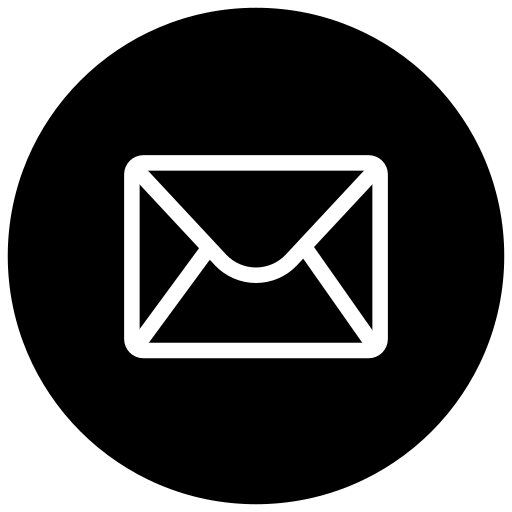
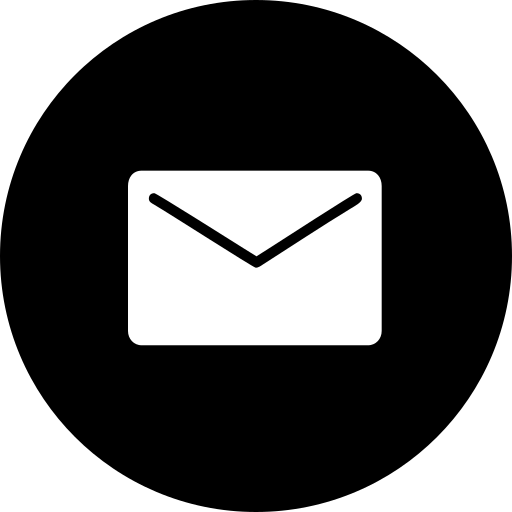
final fixes

Changed region(s): [[0.2188, 0.2812, 0.7812, 0.7188], [0.0, 0.0, 1.0, 1.0]]

diff --git a/src/app/components/main-page/main-page.component.html b/src/app/components/main-page/main-page.component.html
@@ -1,17 +1,18 @@
-<div class="main-container">
-  <div class="useful-links-container">
-    <div class="social-links-container">
-      <a [attr.href]="socialLinks[0].url" aria-label=" facebook" target="_blank" class="icon-container"
-        ngClass="icon-facebook"></a>
-      <a [attr.href]="socialLinks[1].url" aria-label=" Instagram" target="_blank" class="icon-container"
-        ngClass="icon-instagram"></a>
-      <a [attr.href]="socialLinks[2].url" aria-label="youtube" target="_blank" class="icon-container"
-        ngClass="icon-youtube"></a>
-      <a [attr.href]="'mailto:contact@demoralizeband.gr' " aria-label="email" class="icon-container"
-        ngClass="icon-mail"></a>
-    </div>
-
+<div class="useful-links-container">
+  <div class="social-links-container">
+    <a [attr.href]="socialLinks[0].url" aria-label=" facebook" target="_blank" class="icon-container"
+      ngClass="icon-facebook"></a>
+    <a [attr.href]="socialLinks[1].url" aria-label=" Instagram" target="_blank" class="icon-container"
+      ngClass="icon-instagram"></a>
+    <a [attr.href]="socialLinks[2].url" aria-label="youtube" target="_blank" class="icon-container"
+      ngClass="icon-youtube"></a>
+    <a [attr.href]="'mailto:contact@demoralizeband.gr' " aria-label="email" class="icon-container"
+      ngClass="icon-mail"></a>
   </div>
+  <button type="button" class="media-button"><a href="https://demoralize.gr/" target='_blank'>Go to Official
+      Site</a></button>
+</div>
+<div class="main-container">
   <div class="flip-card no-mobile">
     <div class="flip-card-inner">
       <div class="flip-card-front">
@@ -39,6 +40,7 @@
     <app-profile></app-profile>
   </div>
 </div>
+
 <!-- <div class="buttons-container-mobile">
   <button aria-label="show Favourites images" type="button" class="profile-button" style="margin-right: 16px"
     [ngStyle]="{ 'background-color': selectedColor }" *ngIf="this.profiles.length > 3" (click)="toggleNext(true)">

diff --git a/src/app/components/main-page/main-page.component.less b/src/app/components/main-page/main-page.component.less
@@ -206,8 +206,11 @@
 
 .useful-links-container {
   display: flex;
-  flex-direction: column;
+  flex-direction: row;
   padding: 16px;
+  width: 100%;
+  align-items: center;
+  justify-content: center;
 }
 
 .useful-link {
@@ -254,7 +257,7 @@
 }
 
 .icon-mail {
-  background-image: url(../../../../content/mail.png);
+  background-image: url(../../../../content/email.png);
   background-size: contain;
 }
 
@@ -270,4 +273,49 @@
   @media screen and (max-width: 720px) {
     display: flex;
   }
+}
+
+.media-button {
+  cursor: pointer;
+  border-radius: 24px;
+  height: 48px;
+  margin-left: 64px;
+  border: 1px solid #144239;
+  font-size: 16px;
+  font-weight: 700;
+  color: #111111;
+  background-color: #144239;
+  padding: 8px;
+
+  /* unvisited link */
+  a:link {
+    color: white;
+    text-decoration: none;
+  }
+
+  /* visited link */
+  a:visited {
+    color: white;
+    text-decoration: none;
+  }
+
+  /* mouse over link */
+  a:hover {
+    color: white;
+    text-decoration: none;
+  }
+
+  /* selected link */
+  a:active {
+    color: white;
+    text-decoration: none;
+  }
+
+  @media screen and (max-width: 720px) {
+    margin-left: 0;
+    width: 100%;
+  }
+
+
+
 }

diff --git a/src/app/components/profile/profile.component.less b/src/app/components/profile/profile.component.less
@@ -177,22 +177,26 @@
 
   /* unvisited link */
   a:link {
-    color: black;
+    color: white;
+    text-decoration: none;
   }
 
   /* visited link */
   a:visited {
     color: white;
+    text-decoration: none;
   }
 
   /* mouse over link */
   a:hover {
     color: white;
+    text-decoration: none;
   }
 
   /* selected link */
   a:active {
     color: white;
+    text-decoration: none;
   }
 
   @media screen and (max-width: 720px) {

diff --git a/src/styles.less b/src/styles.less
@@ -19,6 +19,10 @@ body {
   background-size: cover;
   background-repeat: no-repeat;
 
+  @media screen and (min-height: 1294px) {
+    height: 100vh;
+  }
+
   @media screen and (max-width: 720px) {
     max-width: 720px;
     overflow-x: hidden;
